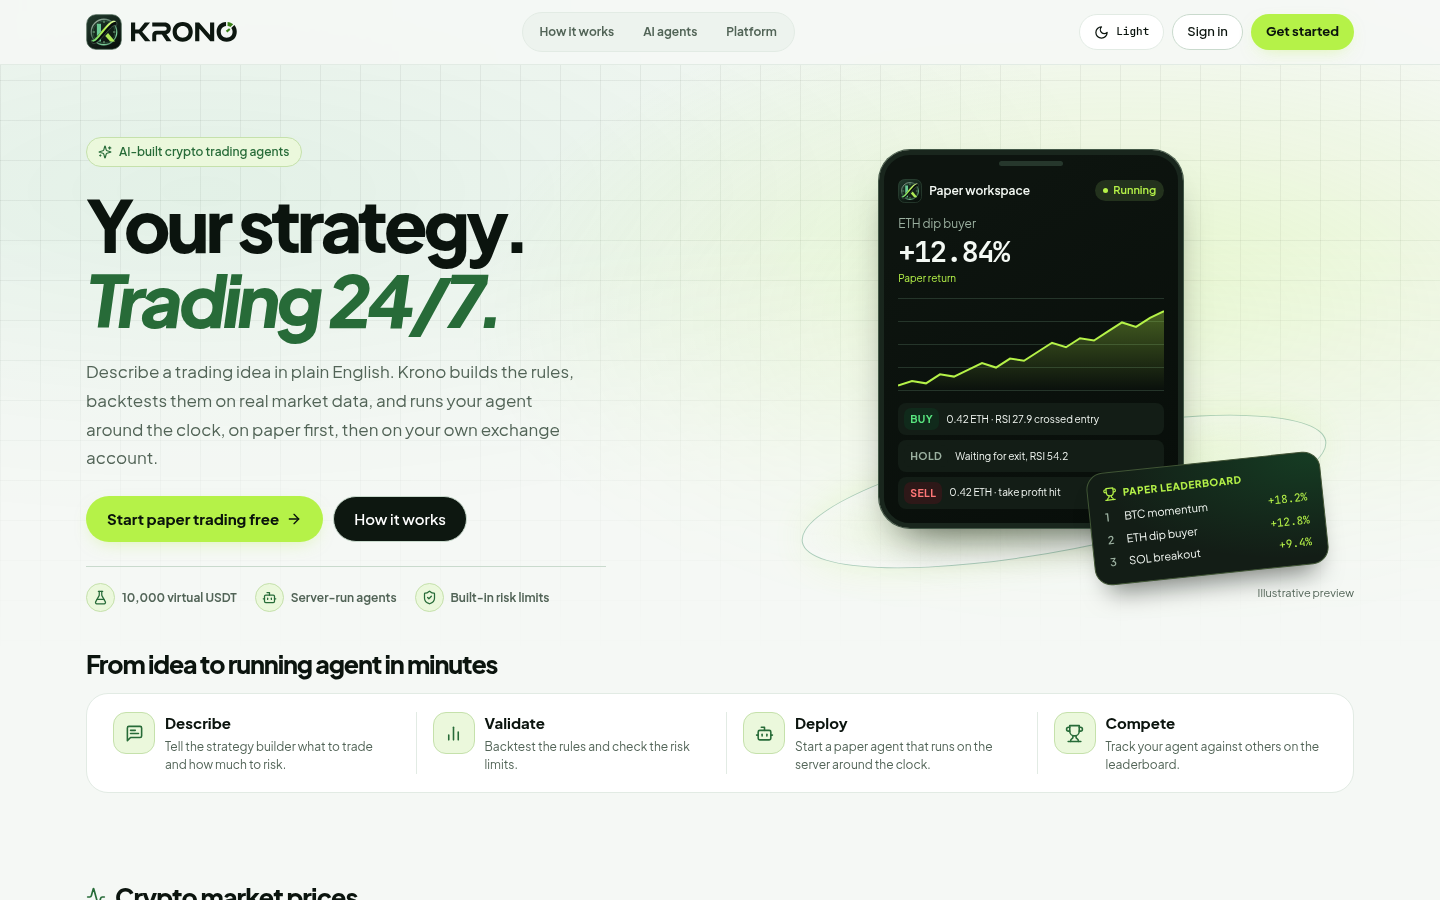
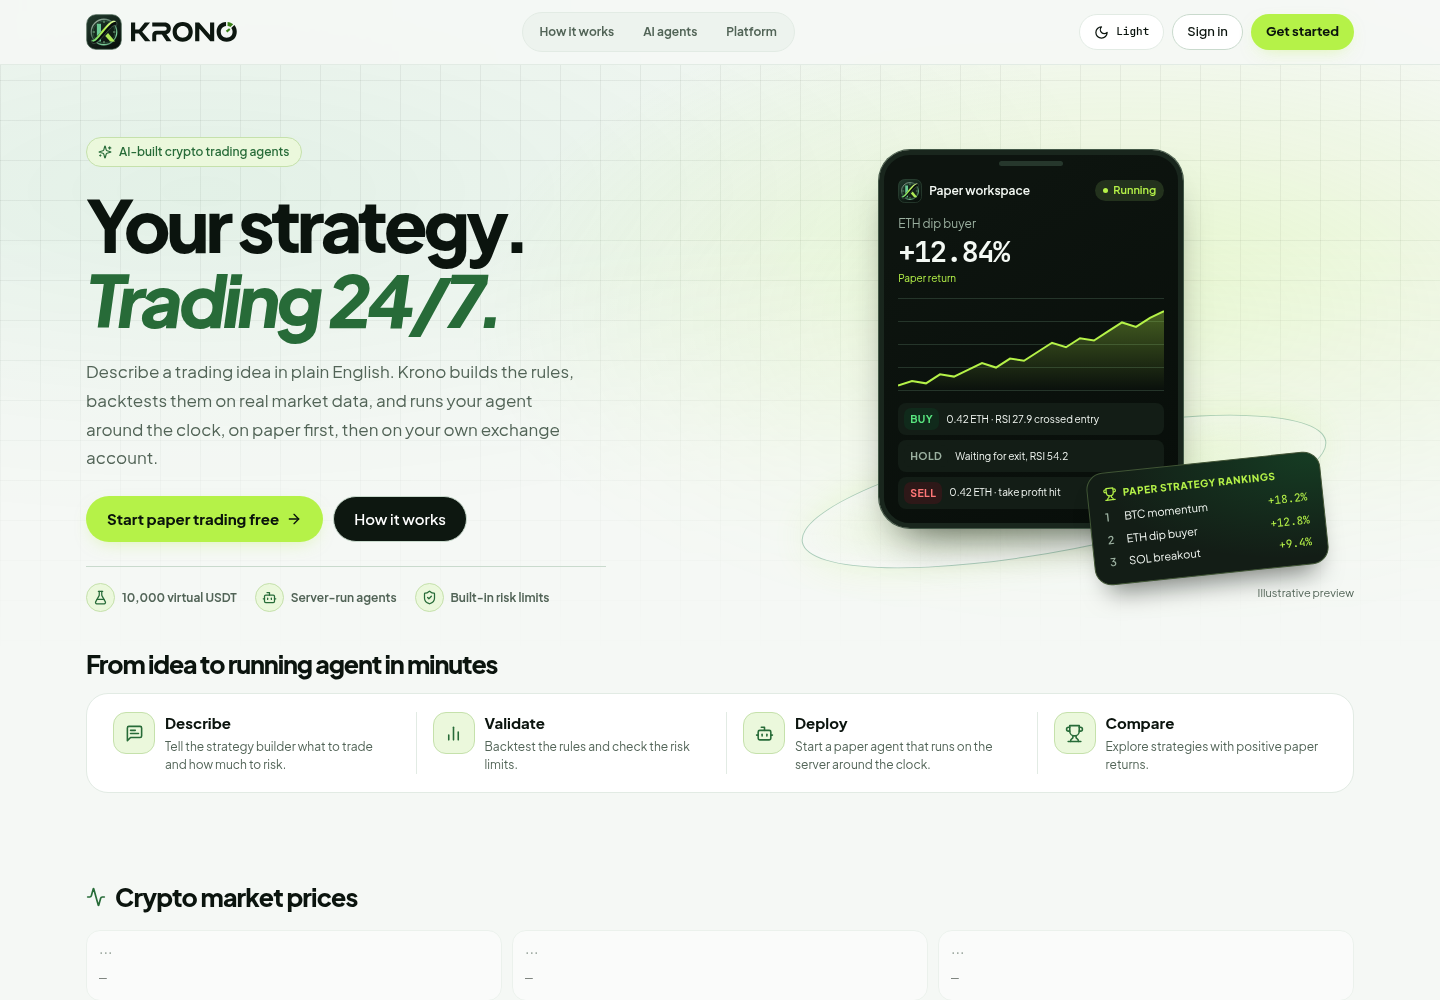
feat: Update README and screenshots for improved clarity and visual representation

diff --git a/README.md b/README.md
@@ -2,183 +2,138 @@
 
 # Krono
 
-**Automated crypto trading agents. Describe a strategy in plain English, backtest it, and let it trade around the clock: on paper first, then on your own exchange account.**
+**Build a crypto strategy in plain English, backtest it, and run it as a paper agent. Then connect a supported spot exchange for testnet or live trading.**
 
-[Features](#features) · [Screenshots](#screenshots) · [Quick start](#quick-start) · [How it works](#how-it-works) · [Live trading](#live-trading) · [Development](#development)
+[Quick start](#quick-start) · [Workspace](#workspace) · [Screenshots](#screenshots) · [Live trading](#live-trading) · [Deployment](#deployment)
 
 <picture>
-  <source media="(prefers-color-scheme: light)" srcset="docs/screenshots/landing-light.png">
-  <img alt="The Krono landing page" src="docs/screenshots/landing-dark.png" width="100%">
+  <source media="(prefers-color-scheme: dark)" srcset="docs/screenshots/landing-dark.png">
+  <img alt="Krono landing page in light mode" src="docs/screenshots/landing-light.png" width="100%">
 </picture>
 
 </div>
 
-## Features
+## Quick start
 
-|                                 |                                                                                                                                                                                                                                     |
-| ------------------------------- | ----------------------------------------------------------------------------------------------------------------------------------------------------------------------------------------------------------------------------------- |
-| 🤖 **AI strategy builder**      | Chat a trading idea ("buy ETH when RSI drops below 30, sell above 65, 5% per trade"), and Krono turns it into rules you can edit, backtest and run. Works offline with a built-in rules drafter, or with any OpenAI-compatible LLM. |
-| ⏱ **Agents that keep running** | Agents run in a server-side worker with leases and checkpoints, so they keep trading after you close the browser and resume safely after a restart.                                                                                 |
-| 🧪 **Paper trading**            | Every account gets 10,000 virtual USDT, filled against live Coinbase prices with simulated fees and slippage. Trade by hand or with agents.                                                                                         |
-| 🔌 **Live trading**             | Link Binance, Bybit or OKX with a trade-only API key; each has a free testnet. Trade by hand, or promote a proven paper agent so its trades are mirrored to your account at a budget you choose.                                    |
-| 🏆 **Ranked strategies**        | Browse strategies with positive recorded paper returns and copy an entry into your workspace.                                                                                                                                       |
-| 📰 **Live news and sentiment**  | Real-time headlines from 300+ sources through [cryptocurrency.cv](https://github.com/nirholas/cryptocurrency.cv), plus the Fear & Greed index and per-coin sentiment.                                                               |
-| 📈 **Live markets**             | Streaming Binance prices in the ticker, candlestick charts with RSI, ATR, MACD and a market-regime read.                                                                                                                            |
-| 👛 **Wallet view**              | Connect MetaMask or any EIP-1193 wallet to see balances next to your exchange accounts. View-only: Krono never asks you to sign anything.                                                                                           |
-| 🌗 **Light and dark themes**    | Starts in light mode, with a toggle that remembers your choice.                                                                                                                                                                     |
+You need Node.js 22.12 or later, `uv`, and Docker. To use your own PostgreSQL server, set `KRONO_DATABASE_DSN` before starting. [uv installation](https://docs.astral.sh/uv/getting-started/installation/)
 
-Every data source is free and needs no API key.
+```bash
+make setup
+make dev
+```
+
+Open the URL printed by `make dev` and create a local account. New paper accounts start with **10,000 virtual USDT** by default. [Default local URL](http://127.0.0.1:5173)
+
+The launcher starts PostgreSQL, applies migrations, and starts the API, gateway, worker, and frontend. Keep it running while local agents are active. Local database, session, and exchange encryption secrets are stored in `.runtime/dev.json`. Keep this file with your local database backup.
+
+### Run your first paper agent
+
+1. Open **AI Strategy Builder** and enter a prompt such as “Buy ETH when RSI is below 30 and sell when RSI is above 70. Use 5% of available cash per entry and a 3% stop loss.”
+2. Answer any follow-up questions and review the draft. Choose **Save strategy** if you want to test that version in **Backtesting** first.
+3. In the builder, choose **Run as paper agent**, set an allocation and risk limits, then choose **Start paper agent**. The worker backtests the rules and applies risk checks before placing simulated orders. Track its status and decisions in **My Agents**.
+
+Krono evaluates long-only spot strategies on closed hourly candles. The paper worker runs on the server after the browser closes.
+
+## Workspace
+
+| Area                                      | What you can do                                                                                                                                               |
+| ----------------------------------------- | ------------------------------------------------------------------------------------------------------------------------------------------------------------- |
+| **Overview**                              | Switch between the **Paper dashboard** for virtual equity, allocation, and recent orders and the **Live dashboard** for linked exchange balances.             |
+| **AI Strategy Builder**                   | Draft entry, exit, and sizing rules in chat. The builder asks for missing details before producing a validated draft.                                         |
+| **Backtesting**                           | Replay a saved strategy version on historical candles. Compare in-sample and chronological holdout results, then inspect trades, drawdown, and modeled costs. |
+| **Paper Trading and My Agents**           | Place simulated market or limit orders, watch balances and fills, and manage agents that run in the background.                                               |
+| **Strategies**                            | Browse strategies ranked by recorded paper returns and copy an entry to your own library. Open **Settings → My strategies** to manage your saved versions.    |
+| **Markets & AI Insights and Crypto News** | Browse eligible spot markets, save a watchlist, inspect charts and indicators, and generate a summary from market data and recent headlines.                  |
+| **Live Trading**                          | Link Binance, Bybit, or OKX, place manual spot orders, and mirror eligible agents within a budget you set.                                                    |
+
+### Local settings
+
+Use `.env` for local overrides and `.env.local` for private provider keys. The built-in rules mode supports drafting and market summaries without a model key. Configure an OpenAI-compatible endpoint or Amazon Bedrock for model-backed responses. [Example environment settings](.env.example)
+
+| Setting                                       | Purpose                                                                                                      |
+| --------------------------------------------- | ------------------------------------------------------------------------------------------------------------ |
+| `KRONO_LLM_PROVIDER`                          | Select `rules`, `groq`, or `bedrock`. Local development uses `rules` by default when no Groq key is present. |
+| `GROQ_API_KEY`, `GROQ_BASE_URL`, `GROQ_MODEL` | Configure Groq or another OpenAI-compatible endpoint.                                                        |
+| `KRONO_DATABASE_DSN`                          | Use an existing PostgreSQL server.                                                                           |
+| `KRONO_PAPER_INITIAL_USDT`                    | Set the opening credit for new paper accounts.                                                               |
+| `KRONO_CONFIG_PATH`                           | Load a custom runtime configuration for market providers and paper trading limits.                           |
 
 ## Screenshots
 
-### Overview
+Krono defaults to light mode and remembers your theme choice. These captures use a local demo account and fixture market data.
+
+### Paper dashboard
 
 <picture>
-  <source media="(prefers-color-scheme: light)" srcset="docs/screenshots/overview-light.png">
-  <img alt="Overview with sample paper-account balances, equity chart and asset allocation" src="docs/screenshots/overview.png" width="100%">
+  <source media="(prefers-color-scheme: dark)" srcset="docs/screenshots/overview.png">
+  <img alt="Paper dashboard showing virtual equity, asset allocation, holdings, and the live dashboard switch" src="docs/screenshots/overview-light.png" width="100%">
 </picture>
 
-### AI strategy builder
+### AI Strategy Builder
 
-Describe a strategy in a sentence. Krono drafts the entry and exit rules, position size and stop loss, ready to save, backtest or run as an agent.
+<img alt="Strategy chat asking about position sizing and showing the validated hourly ETH strategy" src="docs/screenshots/strategy-builder-chat.png" width="100%">
 
-<img alt="The AI strategy builder turning a chat message into RSI rules" src="docs/screenshots/strategy-builder-chat.png" width="100%">
+### Agent monitoring
 
-### My Agents
-
-Each agent shows its allocation, P&L, last decision and heartbeat. Once it passes validation it can be taken live.
-
-<img alt="An autonomous paper agent with stats, controls and the Take this agent live panel" src="docs/screenshots/agents.png" width="100%">
+<img alt="My Agents showing the status and activity of a demo paper agent" src="docs/screenshots/agents.png" width="100%">
 
 <table>
   <tr>
-    <td width="50%">
-      <strong>Live trading</strong><br>
-      <img alt="Linking a Binance, Bybit or OKX account" src="docs/screenshots/live-trading.png">
-    </td>
-    <td width="50%">
-      <strong>Crypto news</strong><br>
-      <img alt="Live crypto news with Fear and Greed index" src="docs/screenshots/news.png">
-    </td>
+    <td width="50%"><strong>Paper Trading</strong><br><img alt="Simulated order ticket and balance" src="docs/screenshots/paper-trading.png"></td>
+    <td width="50%"><strong>Live Trading</strong><br><img alt="Exchange account linking form in testnet mode" src="docs/screenshots/live-trading.png"></td>
   </tr>
   <tr>
-    <td width="50%">
-      <strong>Markets & AI insights</strong><br>
-      <img alt="BTC candlestick chart with indicators" src="docs/screenshots/markets.png">
-    </td>
-    <td width="50%">
-      <strong>Paper trading</strong><br>
-      <img alt="Paper trading order ticket and balances" src="docs/screenshots/paper-trading.png">
-    </td>
+    <td width="50%"><strong>Markets &amp; AI Insights</strong><br><img alt="Bitcoin chart and market indicators" src="docs/screenshots/markets.png"></td>
+    <td width="50%"><strong>Crypto News</strong><br><img alt="Crypto headlines and sentiment" src="docs/screenshots/news.png"></td>
   </tr>
 </table>
 
-## Quick start
+## Live trading
 
-**Requirements:** Node 22+, [uv](https://docs.astral.sh/uv/), and Docker (for PostgreSQL).
+Connect Binance Spot Testnet, Bybit Testnet, or OKX demo trading to try the exchange flow with test funds. Real-funds accounts use trade-only API keys with withdrawals disabled. Krono encrypts stored keys, applies per-connection order caps, and reconciles uncertain submissions using client order IDs. The browser wallet panel displays balances in view-only mode.
 
-```bash
-make setup   # Python and Node dependencies, production build
-make dev     # PostgreSQL, migrations, API, agents worker, gateway and UI
-```
+To mirror an agent to a real-funds account, it must meet the paper history requirement (seven days by default) and you must confirm promotion. The exchange connection’s kill switch blocks new live orders and cancels open orders. [Live trading guide](docs/LIVE_TRADING.md)
 
-Open **http://127.0.0.1:5173**, create an account, and you're trading on paper.
-
-`make dev` starts everything in one terminal and generates its local secrets in `.runtime/dev.json` (keep that file: it holds the key that encrypts linked exchange keys).
-
-| Service     | Address                 |
-| ----------- | ----------------------- |
-| Web app     | `http://127.0.0.1:5173` |
-| Gateway     | `http://127.0.0.1:8790` |
-| Product API | `http://127.0.0.1:8794` |
-| PostgreSQL  | `127.0.0.1:55432`       |
-
-### A first agent in two minutes
-
-1. Open **AI Strategy Builder** and type a strategy, for example _"Buy ETH when RSI drops below 30 and sell when it goes above 65, risk 5% per trade"_.
-2. Click **Run as paper agent**, then **Start paper agent**. The worker backtests it and applies risk checks before it starts.
-3. Close the browser. The agent keeps trading. Open **My Agents** later to see how it did.
-
-### Optional configuration
-
-Copy [`.env.example`](.env.example) to `.env` to change defaults:
-
-| Variable                                      | Purpose                                                                                                                       |
-| --------------------------------------------- | ----------------------------------------------------------------------------------------------------------------------------- |
-| `GROQ_API_KEY`, `GROQ_BASE_URL`, `GROQ_MODEL` | Use an LLM for the strategy chat (Groq or any OpenAI-compatible endpoint). Without a key, the built-in rules drafter is used. |
-| `KRONO_PAPER_INITIAL_USDT`                    | Starting virtual balance (default 10,000).                                                                                    |
-| `KRONO_LIVE_PROMOTION_DAYS`                   | Days of paper trading before an agent may trade real funds (default 7).                                                       |
-| `KRONO_CREDENTIAL_KEY`                        | Key that encrypts linked exchange keys. `make dev` generates one.                                                             |
-
-## How it works
+## Architecture
 
 ```mermaid
 flowchart LR
-    UI["React app<br/>(Vite)"] -->|cookies + CSRF| GW["Gateway<br/>Fastify"]
-    GW -->|HMAC-signed requests| API["Product API<br/>FastAPI"]
+    UI["React workspace"] -->|Same-origin session| GW["Fastify gateway"]
+    GW -->|Signed request| API["FastAPI product service"]
+    GW --> MODELS["Rules or configured model"]
     API --> DB[("PostgreSQL")]
-    W["Agents worker"] --> DB
-    W -->|mirrored fills| EX["Binance · Bybit · OKX"]
-    API -->|trade-only keys| EX
-    API --- NEWS["cryptocurrency.cv<br/>news stream"]
-    API --- PX["Binance + Coinbase<br/>market data"]
+    Worker["Paper agent worker"] --> DB
+    API --> Feeds["Market and news feeds"]
+    API --> Exchange["Linked spot exchanges"]
+    Worker -->|Promoted agent fills| Exchange
 ```
 
-- **Gateway** (`backend/gateway/`): sign-in, sessions, CSRF, rate limits and the strategy chat. It forwards every product request to the API with a signed, short-lived HMAC header.
-- **Product API** (`backend/product/`): strategies, rankings, backtests, the paper ledger, live connections and orders. It fans out one upstream news stream and one price stream to every browser over Server-Sent Events.
-- **Agents worker** (`backend/product/worker.py`): evaluates each running agent on every closed candle, records fills in the paper ledger and mirrors promoted agents' fills to their exchange. Leases and checkpoints keep each agent on exactly one worker and make restarts safe.
+The product service owns strategy versions, replay reports, the paper ledger, and exchange connections. The worker uses database leases and checkpoints to process due jobs and recover across restarts. [Architecture guide](docs/ARCHITECTURE.md)
 
-See [architecture](docs/ARCHITECTURE.md) for the full design.
+## Deployment
 
-## Live trading
-
-Live trading uses a **trade-only API key** from your exchange, never a wallet signature, so agents can trade without you approving each transaction.
-
-| Exchange | Free test environment                                                |
-| -------- | -------------------------------------------------------------------- |
-| Binance  | [Spot Testnet](https://testnet.binance.vision/) (log in with GitHub) |
-| Bybit    | [Testnet](https://testnet.bybit.com/)                                |
-| OKX      | Demo trading (in the OKX app)                                        |
-
-**Safety measures**
-
-- Keys that can withdraw funds are rejected for real-funds accounts.
-- Keys are encrypted with AES-256-GCM, bound to their owner and connection, and never sent back to the browser.
-- Every order has an idempotent client ID and is reconciled with the exchange if its outcome is unknown.
-- Each account has a max order size and a kill switch that pauses trading and cancels open orders.
-- An agent needs 7 days on paper and an explicit confirmation before it can trade real funds. Testnet accounts work immediately.
-
-The step-by-step guide and API routes are in [live trading](docs/LIVE_TRADING.md).
-
-> [!WARNING]
-> Crypto trading carries real risk. Paper results do not guarantee live performance. Start on a testnet and use small budgets.
+- **Docker Compose** runs PostgreSQL 18, migrations, the private Product API, and the paper worker. The gateway and frontend run separately. [Compose setup](docs/DEVELOPMENT.md#container-topology-and-recovery)
+- **AWS CDK** defines CloudFront, Cognito, ECS Fargate services for the gateway, Product API, and paper worker, and an encrypted Aurora PostgreSQL cluster. The deployment uses ECR image digests and Secrets Manager. [AWS setup](docs/AWS_SETUP.md)
 
 ## Development
 
 ```bash
-make test          # Python tests, gateway tests, frontend type check and build
-npm run test:e2e   # Browser tests (Playwright, isolated fixtures)
+npm run build:platform
+make test
+npm run test:e2e
 ```
 
-The PostgreSQL integration tests run when `KRONO_TEST_DATABASE_DSN` points to a scratch database; otherwise they are skipped.
+Set `KRONO_TEST_DATABASE_DSN` to a disposable database to run PostgreSQL integration tests. The development guide covers browser fixture configuration and the optional research CLI. [Development guide](docs/DEVELOPMENT.md#local-checks)
 
-| Folder                | Contents                                                                     |
-| --------------------- | ---------------------------------------------------------------------------- |
-| `frontend/`           | React app: landing page, workspace, rankings, strategy chat, live trading    |
-| `backend/product/`    | FastAPI service, strategies, backtests, paper ledger, live trading, worker   |
-| `backend/gateway/`    | Fastify gateway: sign-in, CSRF, rate limits, strategy drafting, signed proxy |
-| `backend/migrations/` | PostgreSQL schema migrations                                                 |
-| `tradingagents/`      | Indicator, regime and sizing components reused by the backend                |
-| `tests/e2e/`          | Browser tests                                                                |
-| `deploy/`, `infra/`   | Containers and AWS infrastructure                                            |
-| `docs/`               | Architecture, development, live trading and AWS setup                         |
-
-More in [development](docs/DEVELOPMENT.md), [AWS setup](docs/AWS_SETUP.md) and [security](SECURITY.md).
+| Path                                      | Responsibility                                           |
+| ----------------------------------------- | -------------------------------------------------------- |
+| `frontend/src/platform/`                  | React workspace, dashboards, and strategy workflow       |
+| `backend/gateway/`                        | Sessions, CSRF, signed forwarding, and model integration |
+| `backend/product/`, `backend/migrations/` | Product API, worker, and PostgreSQL schema               |
+| `deploy/`, `infra/`                       | Container definitions and AWS infrastructure             |
+| `backend/tests/`, `tests/e2e/`            | Backend, interaction, and recovery tests                 |
+| `cli/`, `tradingagents/`                  | Inherited research CLI and analytical components         |
 
 ## Credits and license
 
-- News: [cryptocurrency.cv](https://github.com/nirholas/cryptocurrency.cv), free and keyless.
-- Market data: Binance public market data and Coinbase Exchange.
-- Indicator, regime and sizing components reuse the TradingAgents framework.
-
-See [third-party notices](THIRD_PARTY_NOTICES.md). Krono is released under the [Apache 2.0 license](LICENSE).
+Krono uses Coinbase Exchange and Binance for market data, cryptocurrency.cv for news, and TradingAgents for analytical components. The repository is licensed under Apache 2.0. [Third-party notices](THIRD_PARTY_NOTICES.md) · [License](LICENSE)
